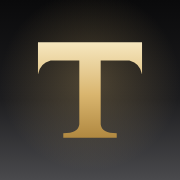
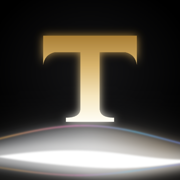
Dark page with a ribbon of light; T mark with the light below and a gold-to-light T (#29)
TK: apply the black + light-ribbon sample; agents are 40+, so bigger base
type, near-white text, a kicker about the book they built. The mark keeps
the Roman inscriptional T, shaded from gold into light, over a ribbon low in
the tile. The ribbon breathes slowly; still under prefers-reduced-motion.

diff --git a/index.html b/index.html
@@ -763,6 +763,86 @@
     .siri-card,.price-card.featured{background:#1d1d1f}
     header.site .bar,.feature-card,.fact-card,.alert-card,.faq-item,.price-card.premium{background:#fff}
   }
+
+  /* =========================================================
+     Dark, with a ribbon of light (TK, 2026-11-06). Agents are 40+:
+     bigger base type, near-white text on black, nothing faint.
+     ========================================================= */
+  html{font-size:17px}
+  :root{
+    --ink:#f5f5f7; --ink-soft:#d2d2d7; --ink-faint:#a1a1a6; --accent:#2997ff; --accent-2:#2997ff; --good:#30d158; --warn:#ffd60a;
+    --lg-light:linear-gradient(160deg, rgba(255,255,255,0.10), rgba(255,255,255,0.035));
+    --lg-light-edge:inset 0 1px 0 rgba(255,255,255,0.16), inset 0 0 0 1px rgba(255,255,255,0.07);
+    --lg-drop:0 24px 60px rgba(0,0,0,0.55);
+    --gold:#e2c275;
+  }
+  body{background:#000; color:var(--ink)}
+  main > section:nth-of-type(even){background:#0a0a0b}
+  .hero::before, #alerts::before, #features::before, #security::before, #faq::before, #pricing::before{opacity:0.55}
+
+  .promo-bar{background:#0f0f10; color:var(--ink-soft); border-bottom:1px solid rgba(255,255,255,0.06)}
+  .promo-bar strong,.promo-bar strong.promo-red{color:#fff}
+  header.site .bar{background:linear-gradient(160deg, rgba(40,40,44,0.72), rgba(20,20,22,0.62))}
+  nav.links a{color:#e8e8ed}
+  nav.links a:hover{color:#fff}
+  .logo{color:#fff}
+  img.mark{border-radius:7px}
+
+  .btn-primary{background:#fff; color:#000}
+  .btn-primary:hover{background:#e8e8ed}
+  .link-more{color:#2997ff}
+  .btn-ghost{color:#fff}
+  .sticky-cta a{background:#fff !important; color:#000 !important; box-shadow:0 12px 30px rgba(0,0,0,0.6) !important}
+
+  /* hero */
+  .hero{overflow:hidden; background:radial-gradient(70% 55% at 50% 22%, #1a1a1c 0%, #050505 60%, #000 100%)}
+  .hero-ribbon{position:absolute; left:50%; top:-130px; width:min(1500px, 140vw); transform:translateX(-50%); pointer-events:none; z-index:0; opacity:0.95;
+    animation:ribbonBreath 9s ease-in-out infinite alternate}
+  @keyframes ribbonBreath{0%{transform:translateX(-50%) scaleY(0.92); opacity:0.8} 100%{transform:translateX(-50%) scaleY(1.08); opacity:1}}
+  @media (prefers-reduced-motion: reduce){.hero-ribbon{animation:none}}
+  .hero .container{position:relative; z-index:1}
+  .hero-head{padding-top:260px}
+  .hero-kicker{color:var(--gold); font-size:1.15rem}
+  .hero h1{color:#fff}
+  .h1-dim{background:linear-gradient(180deg,#fff,rgba(255,255,255,0.5)); -webkit-background-clip:text; background-clip:text; color:transparent}
+  .hero-sub{color:var(--ink-soft)}
+  .hero-fine{color:var(--ink-faint)}
+  .hero-stats b{color:#fff}
+  .hero-stats li{border-left-color:rgba(255,255,255,0.14)}
+  .hero-stats span{color:var(--ink-soft)}
+  @media (max-width:760px){.hero-head{padding-top:150px} .hero-ribbon{top:-10px; width:220vw}}
+
+  /* readable text everywhere */
+  .section-head p,.tour-copy p,.feature-card p,.fact-card p,.alert-card p,.push-note p,.faq-item p{color:var(--ink-soft)}
+  .tour-copy li{color:var(--ink)}
+  .eyebrow{color:var(--gold)}
+  .alert-when{color:#ff9f0a}
+  .feature-icon{color:#fff}
+  .pain-fix{background:rgba(48,209,88,0.12); color:var(--ink)}
+  .pain-tag{color:var(--gold)}
+  .shot{border-color:rgba(255,255,255,0.08); box-shadow:0 40px 100px rgba(0,0,0,0.7), 0 0 0 1px rgba(255,255,255,0.06)}
+  .table-wrap,main > section:nth-of-type(odd) .table-wrap{background:var(--lg-light); box-shadow:var(--lg-light-edge)}
+  .vs-table th{color:var(--ink-faint)}
+  .vs-table td,.vs-table th{border-color:rgba(255,255,255,0.08)}
+  td.no{color:#ff6961} td.mid{color:#ffd60a} td.yes{color:#30d158}
+  .our-col{background:rgba(41,151,255,0.10)}
+  .needs-note{color:var(--ink-soft)}
+  .pricing-lede{color:#fff}
+  .price-card.featured{border:1px solid rgba(226,194,117,0.45)}
+  .price-card.featured .btn{background:#fff !important; color:#000 !important}
+  .price-card.premium,main .price-card.premium{color:var(--ink)}
+  .price-card.premium .price-ends strong{color:#fff}
+  .price-card.premium .tag{background:rgba(255,255,255,0.10); color:var(--ink-soft)}
+  .price-card.premium .one-line-roi{background:rgba(255,255,255,0.06)}
+  .price-card li.hl{background:rgba(226,194,117,0.14) !important; color:#fff !important}
+  .btn-gold{background:#fff; color:#000}
+  .lock-note,.price-fineprint{color:var(--ink-soft)}
+  details.faq-item summary{color:#fff}
+  footer.site{color:var(--ink-faint); background:#000}
+  .siri-card{box-shadow:inset 0 1px 0 rgba(255,255,255,0.22), inset 0 0 0 1px rgba(255,255,255,0.12), 0 30px 80px rgba(0,0,0,0.7)}
+  @media (prefers-reduced-transparency: reduce){
+    header.site .bar,.feature-card,.fact-card,.alert-card,.faq-item,.price-card.premium{background:#161618}
+  }
 </style>
 </head>
 <body>
@@ -797,11 +877,12 @@
 
   <!-- HERO -->
   <section id="top" class="hero">
+    <img class="hero-ribbon" src="assets/brand/ribbon.svg" alt="" aria-hidden="true" />
     <div class="container">
       <div class="hero-head">
-        <p class="hero-kicker">For independent agents with Medicare clients</p>
+        <p class="hero-kicker">You built your book one client at a time.</p>
         <h1>Your Medicare clients <span class="h1-dim">are someone else&rsquo;s leads.</span></h1>
-        <p class="hero-sub">Every client about to turn 65. Every AEP. Every Medigap window about to close. TitusDL CRM finds them in your book and tells your phone first, months before another agent calls.</p>
+        <p class="hero-sub">Every client about to turn 65. Every AEP. Every Medigap window about to close. TitusDL CRM keeps watch over the book you spent years building, and tells your phone first, months before another agent calls.</p>
         <div class="ctas">
           <a href="mailto:info@titusdl.com" class="btn btn-primary btn-lg js-start">Put my book in it, free</a>
           <a href="#pricing" class="link-more">See pricing <span aria-hidden="true">›</span></a>
